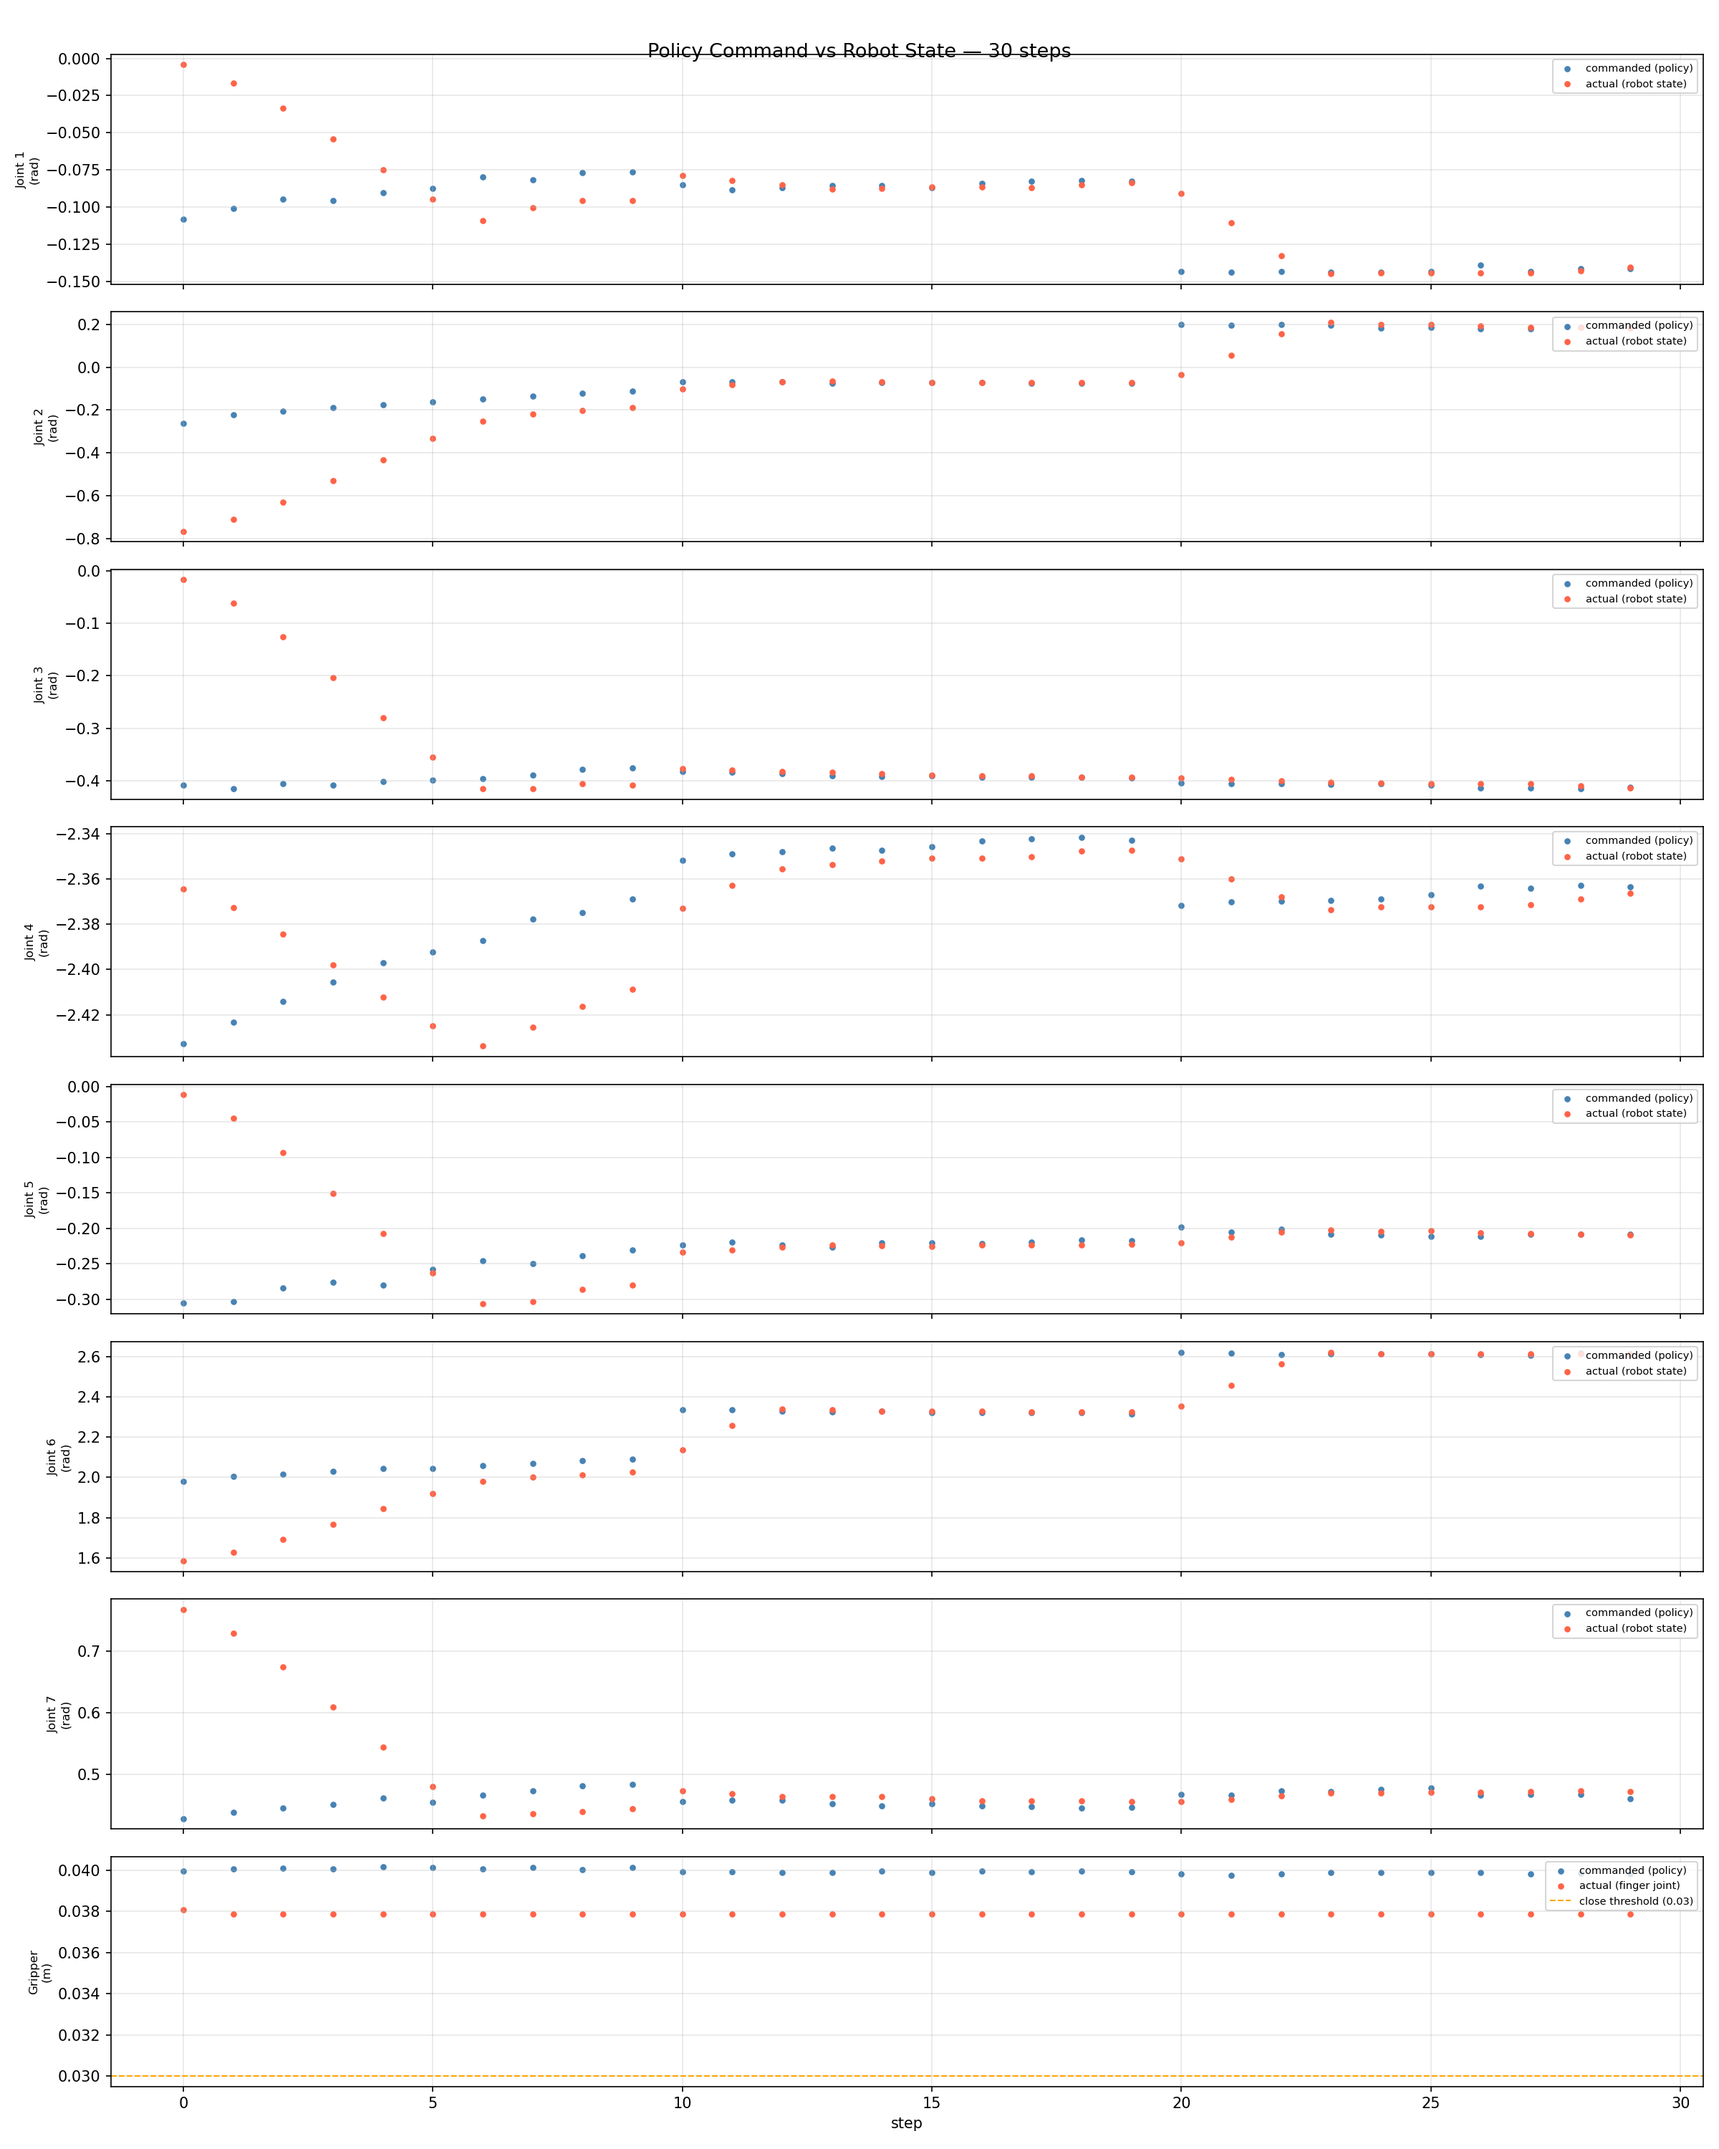
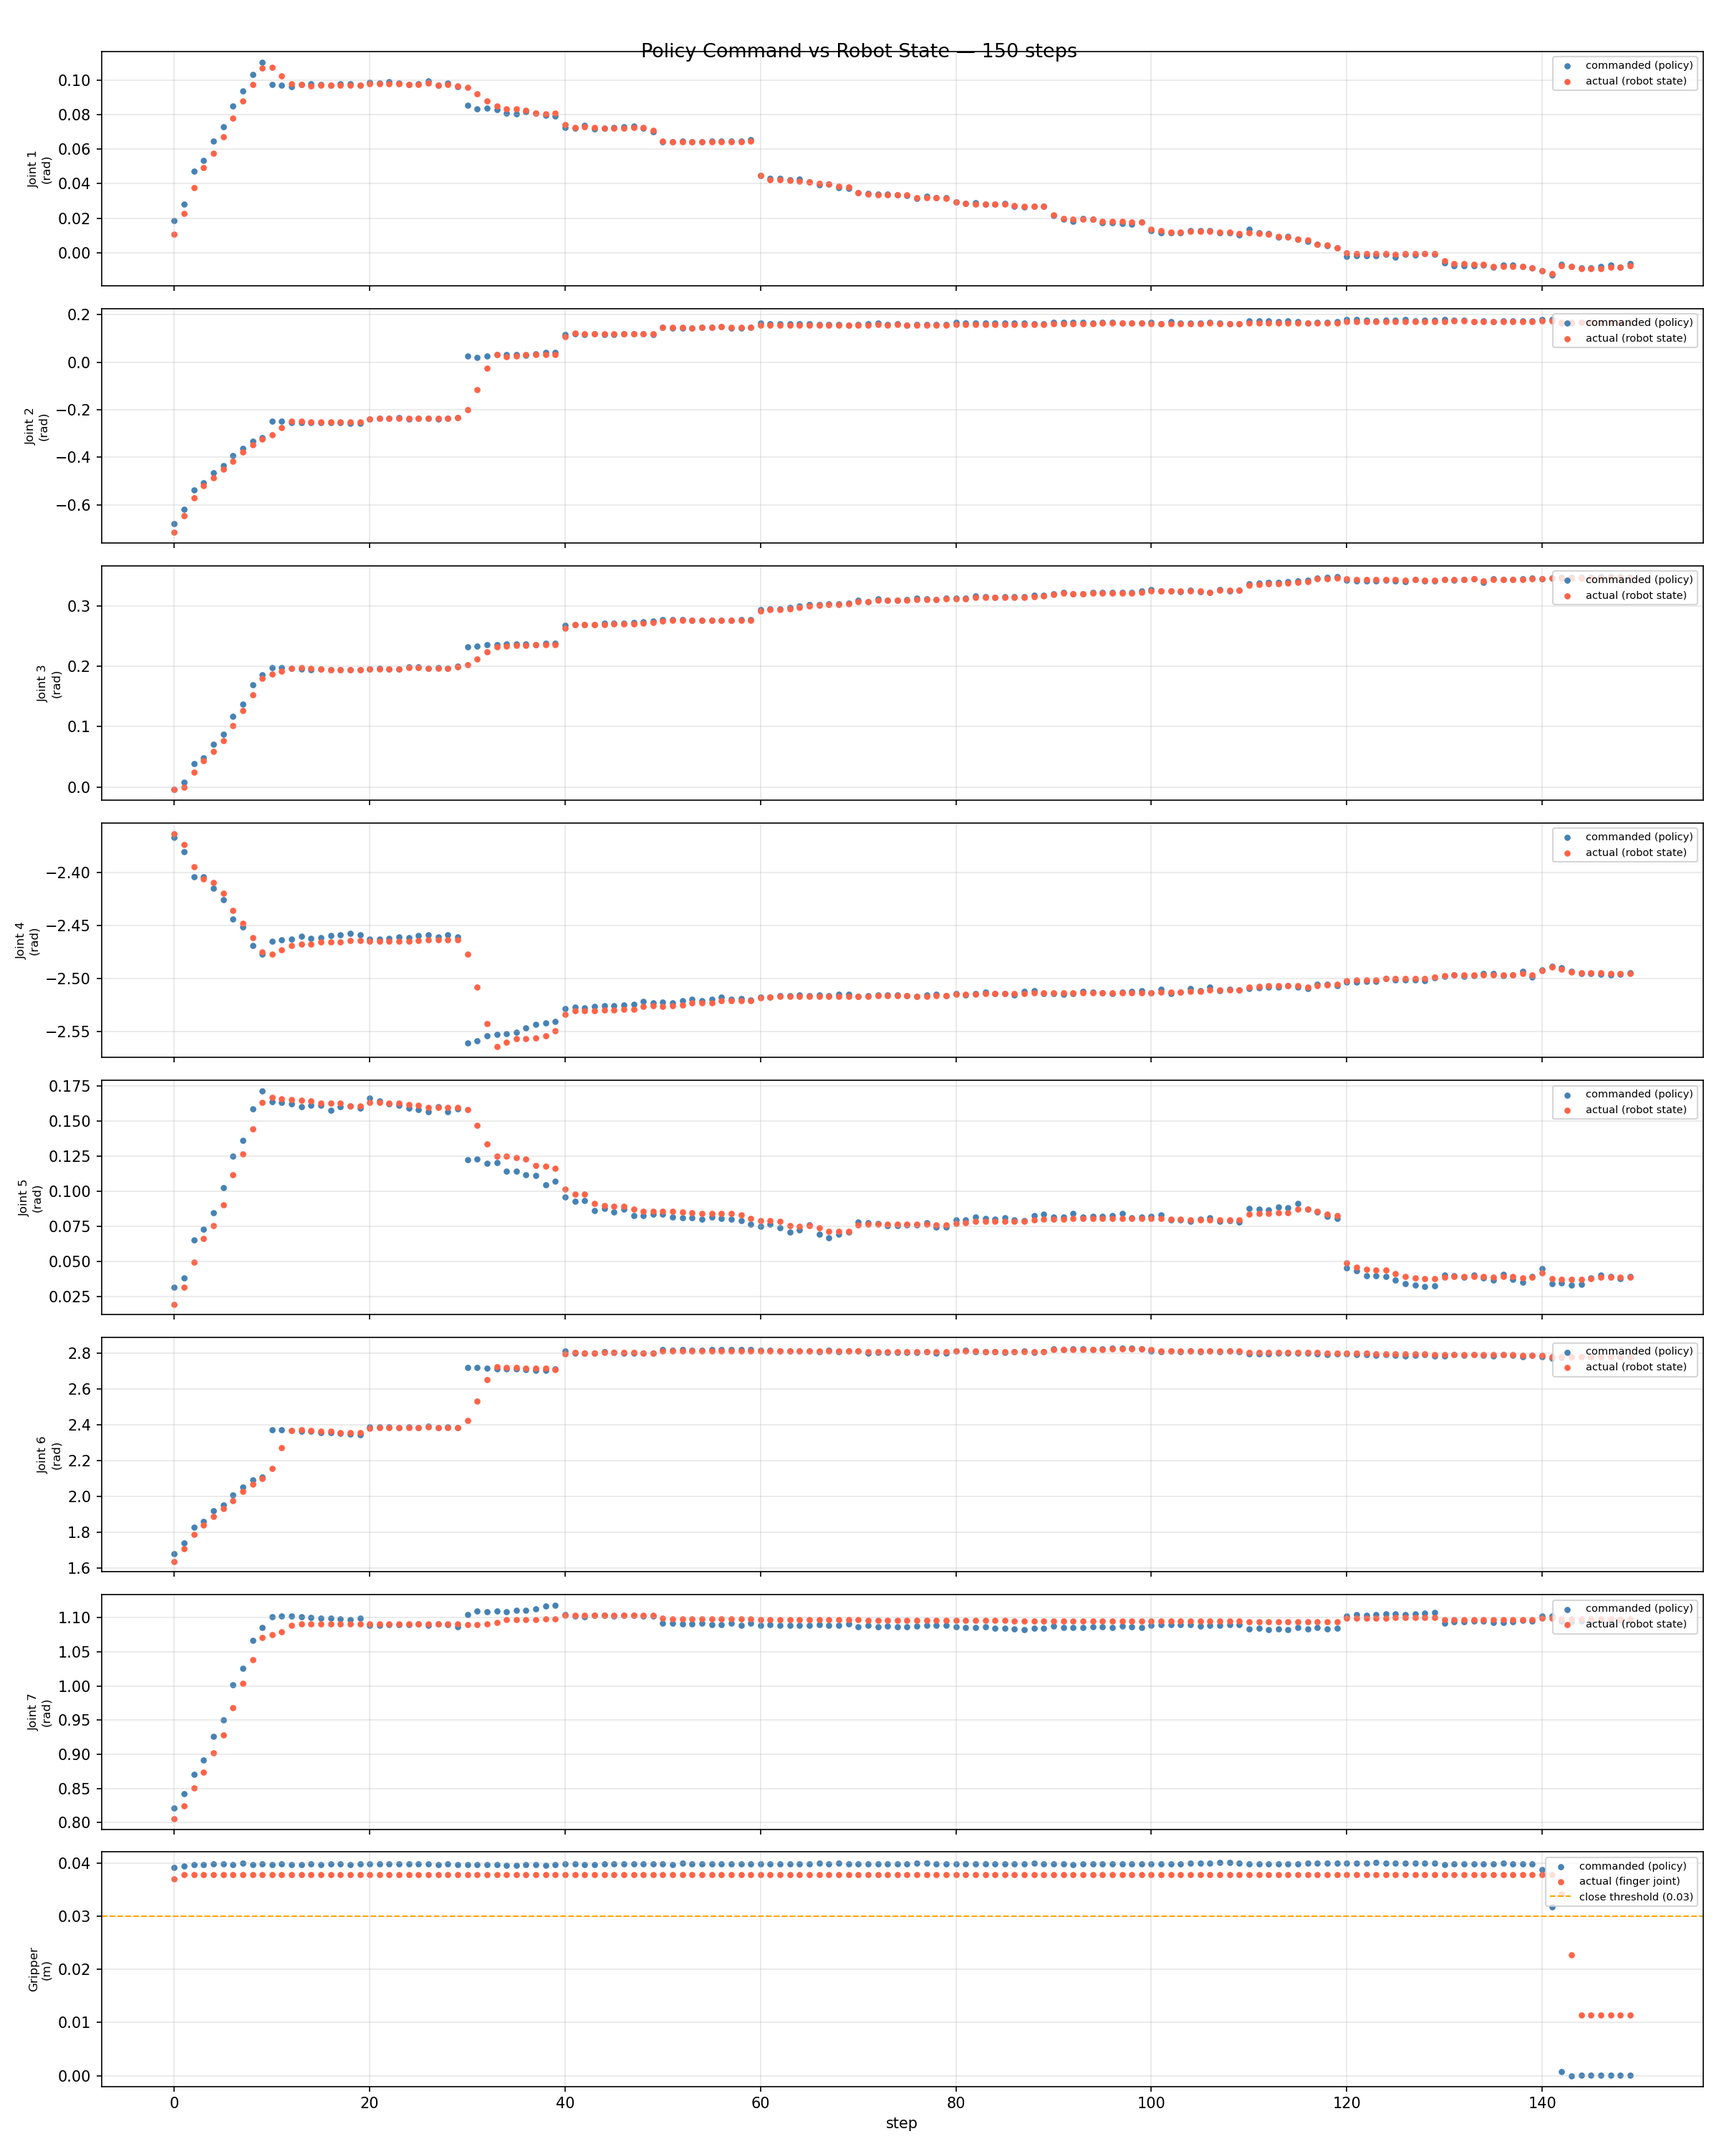
added script to generate plot from analysing time

diff --git a/franka_openpi/openpi_client_node.py b/franka_openpi/openpi_client_node.py
@@ -120,7 +120,10 @@ class OpenPIClientNode(Node):
         self.action_executor = ActionExecutor(self)
         self.commanded_log = []
         self.actual_log = []
+        self.actual_time_log = []   # wall-clock time (s, rel. to first request) per actual sample
+        self.query_spans_log = []   # (t_request, t_received) per chunk — the inference wait
         self.chunk_sizes_log = []
+        self._t0 = None             # monotonic origin: set at the very first chunk request
         self._debug_dir = os.path.expanduser("~/Franka/src/franka_openpi/debug")
         os.makedirs(self._debug_dir, exist_ok=True)
 
@@ -194,22 +197,31 @@ class OpenPIClientNode(Node):
     # ── debug logging / plotting ─────────────────────────────────────────
 
     def _init_episode_logs(self):
-        for fname in ("commanded.npy", "actual.npy", "chunks.npy", "openpi_debug.png"):
+        for fname in (
+            "commanded.npy", "actual.npy", "chunks.npy", "openpi_debug.png",
+            "actual_times.npy", "query_spans.npy", "openpi_debug_time.png",
+        ):
             p = os.path.join(self._debug_dir, self._debug_prefix + fname)
             if os.path.exists(p):
                 os.remove(p)
         self.commanded_log.clear()
         self.actual_log.clear()
+        self.actual_time_log.clear()
+        self.query_spans_log.clear()
         self.chunk_sizes_log.clear()
+        self._t0 = None
 
     def _save_logs(self):
         np.save(os.path.join(self._debug_dir, self._debug_prefix + "commanded.npy"), np.array(self.commanded_log))
         np.save(os.path.join(self._debug_dir, self._debug_prefix + "actual.npy"),    np.array(self.actual_log))
         np.save(os.path.join(self._debug_dir, self._debug_prefix + "chunks.npy"),    np.array(self.chunk_sizes_log))
+        np.save(os.path.join(self._debug_dir, self._debug_prefix + "actual_times.npy"), np.array(self.actual_time_log))
+        np.save(os.path.join(self._debug_dir, self._debug_prefix + "query_spans.npy"),  np.array(self.query_spans_log))
         # Refresh the plot after every chunk. The old `% 50` gate assumed 50-step
         # chunks and never fired for small exec_horizon values (e.g. 10 → 10,20,30
         # never hits a multiple of 50), so no plot appeared until an episode ended.
         self._plot_debug()
+        self._plot_debug_time()
 
     def _plot_debug(self):
         try:
@@ -248,13 +260,71 @@ class OpenPIClientNode(Node):
         except Exception as e:
             print(f"[OpenPI] Plot failed: {e}")
 
-    async def _sample_actual(self, n: int) -> list:
-        """Sample actual joint state once per policy step during chunk execution."""
-        samples = []
+    def _plot_debug_time(self):
+        """Actual robot state vs wall-clock time — the SAME actual dots as _plot_debug,
+        placed on a real-time x-axis (t=0 at the first chunk request) so the idle time
+        between reaching a chunk's end and receiving the next chunk is visible as a gap
+        + shaded band. No commanded/server points here — only the actual trajectory."""
+        try:
+            if not self.actual_log or not self.actual_time_log:
+                return
+            act = np.array(self.actual_log)
+            t = np.array(self.actual_time_log)
+            n = min(len(act), len(t))
+            if n == 0:
+                return
+            act, t = act[:n], t[:n]
+            waits = np.array(self.query_spans_log) if self.query_spans_log else np.empty((0, 2))
+            total_wait = float(np.sum(waits[:, 1] - waits[:, 0])) if len(waits) else 0.0
+
+            from franka_openpi.action_executor import GRIPPER_CLOSE_THRESHOLD
+            fig, axes = plt.subplots(8, 1, figsize=(16, 20), sharex=True)
+            fig.suptitle(
+                f"Actual Robot State vs Time — {n} samples, {len(waits)} chunk requests, "
+                f"{total_wait:.1f}s total inference wait",
+                fontsize=13,
+            )
+
+            def _shade_waits(ax):
+                for k, (ws, we) in enumerate(waits):
+                    ax.axvspan(ws, we, color="gold", alpha=0.25,
+                               label="waiting for chunk" if k == 0 else None)
+
+            for j, ax in enumerate(axes[:7]):
+                _shade_waits(ax)
+                ax.scatter(t, act[:, j], color="tomato", s=10, label="actual (robot state)")
+                ax.set_ylabel(f"Joint {j + 1}\n(rad)", fontsize=8)
+                ax.legend(loc="upper right", fontsize=7)
+                ax.grid(True, alpha=0.3)
+            ax_g = axes[7]
+            _shade_waits(ax_g)
+            ax_g.scatter(t, act[:, 7], color="tomato", s=10, label="actual (finger joint)")
+            ax_g.axhline(GRIPPER_CLOSE_THRESHOLD, color="orange", linewidth=1, linestyle="--",
+                         label=f"close threshold ({GRIPPER_CLOSE_THRESHOLD})")
+            ax_g.set_ylabel("Gripper\n(m)", fontsize=8)
+            ax_g.legend(loc="upper right", fontsize=7)
+            ax_g.grid(True, alpha=0.3)
+            axes[-1].set_xlabel("time (s)")
+            plt.tight_layout()
+            path = os.path.join(self._debug_dir, self._debug_prefix + "openpi_debug_time.png")
+            plt.savefig(path, dpi=150)
+            plt.close(fig)
+            print(f"[OpenPI] Time plot saved → {path}")
+        except Exception as e:
+            print(f"[OpenPI] Time plot failed: {e}")
+
+    async def _sample_actual(self, n: int) -> tuple[list, list]:
+        """Sample actual joint state once per policy step during chunk execution.
+
+        Also returns the wall-clock time of each sample (s, relative to the run's first
+        chunk request) so the trajectory can be plotted against real time.
+        """
+        samples, times = [], []
         for _ in range(n):
             await asyncio.sleep(STEP_DURATION)
             samples.append(self._raw_joints[:8].copy())
-        return samples
+            times.append(time.monotonic() - self._t0)
+        return samples, times
 
     # ── main loop ────────────────────────────────────────────────────────
 
@@ -268,6 +338,7 @@ class OpenPIClientNode(Node):
         finally:
             executor.shutdown()
             self._plot_debug()
+            self._plot_debug_time()
 
     async def _run_async(self, num_episodes: int):
         loop = asyncio.get_event_loop()
@@ -301,12 +372,19 @@ class OpenPIClientNode(Node):
 
             step = 0
             while step < 500:
-                # 1. Query policy from true current robot state
+                # 1. Query policy from true current robot state.
+                #    Time the request→receive span: this is the idle window the robot
+                #    spends waiting after reaching the previous chunk's last point.
                 print(f"  Querying policy at step {step}...")
+                t_req = time.monotonic()
+                if self._t0 is None:
+                    self._t0 = t_req  # timeline origin = first chunk request
                 chunk = await loop.run_in_executor(None, self._fetch_chunk_sync)
+                t_recv = time.monotonic()
                 if chunk is None:
                     print("  ERROR: inference failed — stopping episode.")
                     break
+                self.query_spans_log.append((t_req - self._t0, t_recv - self._t0))
 
                 horizon = self.exec_horizon if self.exec_horizon > 0 else len(chunk)
                 n = min(horizon, len(chunk), 500 - step)
@@ -324,11 +402,12 @@ class OpenPIClientNode(Node):
                 exec_task = asyncio.create_task(
                     self.action_executor.execute_chunk(chunk, q_start=q_start)
                 )
-                actual_samples = await self._sample_actual(n)
+                actual_samples, actual_times = await self._sample_actual(n)
                 ok = await exec_task
 
                 for s in actual_samples:
                     self.actual_log.append(s)
+                self.actual_time_log.extend(actual_times)
                 self._save_logs()
 
                 step += n
@@ -337,6 +416,7 @@ class OpenPIClientNode(Node):
                     break
 
             self._plot_debug()
+            self._plot_debug_time()
             print(f"  Episode {ep + 1} done ({step} steps).")
 
 
